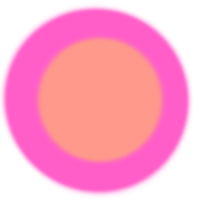
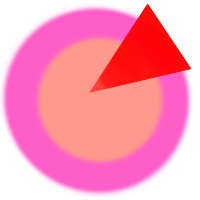
add global state, interface, reset & scale

Changed region(s): [[0.45, 0.0, 0.96, 0.48]]

diff --git a/src/Duck.jsx b/src/Duck.jsx
@@ -1,18 +1,24 @@
 import { OrbitControls, useTexture} from '@react-three/drei'
 import {useFrame} from '@react-three/fiber'
-import { useRef, useState } from 'react'
+import { useEffect, useRef, useState } from 'react'
 import * as THREE from 'three'
 import Sticker from './Sticker'
+import useSticker from './stores/useSticker'
 
 export default function Duck()
 {
-    const cubeRef = useRef()
+    const duckRef = useRef()
     const helperRef = useRef()
 
+
+    //global state
+    const start = useSticker((state) => state.start)
+    const scale = useSticker((state) => state.scale)
+    const setScale = useSticker((state) => state.setScale)
+
+    //load texture
     const decalTexture = useTexture('./screen-sticker.png')
 
-    //set one sticker
-    const [ useSticker, setSticker ] = useState(false)
 
     //array of stickers
     const [stickers, setStickers] = useState([])
@@ -24,12 +30,41 @@ export default function Duck()
             id: stickers.length,
             renderOrder: stickers.length,
             rotation: [helperRef.current.rotation.x, helperRef.current.rotation.y, helperRef.current.rotation.z],
-            position: [helperRef.current.position.x, helperRef.current.position.y, helperRef.current.position.z]
+            position: [helperRef.current.position.x, helperRef.current.position.y, helperRef.current.position.z],
+            scale: scale * 0.5
         }])   
     }
 
+
+    //reset stickers
+    const reset = () => {
+        setStickers([])
+        setScale(1)
+        helperRef.current.position.set(0,0,0)
+
+    }
+
+
+    useEffect(() =>
+    {
+        const unsubscribeReset = useSticker.subscribe(
+            (state) => state.phase,
+            (value) =>
+            {
+                if(value === 'cleared')
+                    reset()
+            }
+        )
+
+        return () => 
+        {
+            unsubscribeReset()
+        }
+    }, [])
+
     // //render helper only if there is an intersection
     // const [ helper, setHelper ] = useState(false)
+
 
     useFrame((state) => {
         updateHelperPosition(state.raycaster)
@@ -38,7 +73,7 @@ export default function Duck()
 
     const updateHelperPosition = (raycaster) => {
         const intersects =[]
-        const mesh = cubeRef.current
+        const mesh = duckRef.current
         raycaster.intersectObject(mesh, false, intersects)
         console.log[intersects]
 
@@ -59,8 +94,8 @@ export default function Duck()
                 n.add( intersects[ 0 ].point )
 
                 helperRef.current.position.copy((intersects[0].point))
-                helperRef.current.lookAt(n)
-                    
+                console.log(helperRef.current.rotation)
+                helperRef.current.lookAt(n)    
             }
 
             intersects.length=0
@@ -70,21 +105,29 @@ export default function Duck()
     return <>
         <OrbitControls makeDefault />
         <mesh 
-            ref={ cubeRef }
+            ref={ duckRef }
             onPointerEnter={() => document.body.style.cursor = 'grab'}
             onPointerLeave={() => document.body.style.cursor = 'default'}
         >
             <sphereGeometry />
-            <meshNormalMaterial depthWrite={false}/>
+            <meshNormalMaterial depthWrite={false} wireframe/>
         </mesh>
         
 
-        <mesh ref={helperRef} visible={true} onClick={addSticker}>
-            {/* <boxGeometry args={[0.5, 0.5, 0.25]} /> */}
-            <planeGeometry args={[0.5, 0.5]} />
-            <meshBasicMaterial map={decalTexture} transparent side={THREE.DoubleSide}/>
+        <mesh 
+            ref={helperRef} 
+            visible={true}
+            // scale={scale} 
+            onClick={() => {
+                addSticker()
+                start()
+            }}
+        >
+                {/* <boxGeometry args={[0.5, 0.5, 0.25]} /> */}
+                <planeGeometry args={[0.5, 0.5]} />
+                <meshBasicMaterial map={decalTexture} transparent side={THREE.DoubleSide}/>
         </mesh>
 
-        <Sticker stickers={stickers} cubeRef={cubeRef}/>
+        <Sticker stickers={stickers} duckRef={duckRef}/>
     </>
 }

diff --git a/src/style.css b/src/style.css
@@ -8,3 +8,110 @@ html, body, #root
     overflow: hidden;
     background: rgb(22, 16, 26);
 }
+
+.interface
+{
+    position: fixed;
+    top: 0;
+    left: 0;
+    width: 100%;
+    height: 100%;
+    pointer-events: none;
+}
+
+.reset
+{
+    font-family: 'Poppins', sans-serif;
+    width: 70px;
+    height: 70px;
+    margin-top: 16px;
+    margin-left: 16px;
+    background-color: rgb(187, 105, 169);
+    color: #fff;
+    border-radius: 50%;
+    display: flex;
+    justify-content: center;
+    pointer-events: auto;
+    align-items: center;
+    cursor: pointer;
+    transition: background-color 0.1s, transform 0.3s;
+}
+
+.reset:hover
+{
+    background-color:  rgb(52, 83, 219);
+    transform: scale(1.05);
+}
+
+.reset:active
+{
+    transform: scale(1);
+}
+
+.slider {
+	position: absolute;
+	left: 50%;
+	bottom: 10px;
+	height: 48px;
+	width: 80vw;
+	max-width: 350px;
+	border-radius: 20px 20px 0 0;
+	transform: translateX(-50%);
+	display: flex;
+	align-items:center;
+	justify-content:space-between;
+	padding:0 21px 6px 16px;
+    cursor: pointer;
+    pointer-events: auto;
+}
+
+@media screen and (min-width: 640px) {
+	.slider {
+		width: 398px;
+		max-width: none;
+	}
+}
+
+
+.slider-range {
+	width: 100%;
+	height: 13px;
+	margin: 0 16px;
+	-webkit-appearance: none;
+  appearance: none;
+  background: transparent;
+  cursor: pointer;
+}
+
+.slider-range::-webkit-slider-runnable-track {
+  background: rgb(255, 255, 255);
+  height: 2px;
+}
+
+.slider-range::-moz-range-track {
+  background: rgb(255, 255, 255);
+  height: 2px;
+}
+
+.slider-range::-webkit-slider-thumb {
+	-webkit-appearance: none;
+	width: 20px;
+	height: 20px;
+	background-color: white;
+	border-radius: 50%;
+	transform: translateY(-50%);
+}
+
+.slider-range::-moz-range-thumb {
+	border: none;
+	width: 15px;
+	height: 15px;
+	background-color: white;
+	border-radius: 50%;
+	margin-top: -5px;
+    transform: translateY(-50%);
+}
+
+.slider-range:focus {
+  outline: none;
+}

diff --git a/src/Sticker.jsx b/src/Sticker.jsx
@@ -2,26 +2,28 @@ import { Decal, useTexture } from '@react-three/drei'
 import { useEffect, useRef } from 'react'
 
 
-export default function Sticker({cubeRef, stickers})
+export default function Sticker({duckRef, stickers})
 {
     const decalRef = useRef()
     const decalTexture = useTexture('./screen-sticker.png')
-    useEffect(()=>{console.log(stickers)}, [stickers[0]])
+
+    useEffect(() => console.log(stickers), [])
+
 
     return <>
         {stickers.map(sticker => (
             <Decal
                 key={sticker.id} 
-                mesh={cubeRef}
+                mesh={duckRef}
                 ref={decalRef}
                 // debug
-                scale={0.5}
+                scale={sticker.scale}
                 polygonOffset
                 polygonOffsetFactor={-4}
                 rotation={sticker.rotation}
                 position={sticker.position}
                 renderOrder={sticker.renderOrder}
-                >
+            >
                 <meshBasicMaterial map={decalTexture} transparent depthWrite={false}/>
             </Decal>
         ))}

diff --git a/src/Interface.jsx b/src/Interface.jsx
@@ -1,0 +1,31 @@
+import { useEffect, useRef, useState } from "react"
+import useSticker from "./stores/useSticker.jsx"
+
+
+export default function Interface()
+{
+    const clear = useSticker((state) => state.clear)
+    const scale = useSticker((state) => state.scale)
+    const setScale = useSticker((state) => state.setScale)
+    
+
+    const handleScaleChange = (event) => {
+        const value = parseFloat(event.target.value)
+        setScale(value)
+    }
+
+    return <div className='interface'>
+        <div className='reset' onClick={ clear }>Reset</div>
+        <div className='slider'>
+            <input
+                className='slider-range'
+                type='range'
+                value={scale}
+                step={0.1}
+                min={0.3}
+                max={2.0}
+                onChange={handleScaleChange}
+            />
+        </div>
+    </div>
+}

diff --git a/src/index.html b/src/index.html
@@ -2,9 +2,13 @@
 <html lang="en">
   <head>
     <meta charset="UTF-8" />
-    <link rel="icon" type="image/svg+xml" href="/vite.svg" />
     <meta name="viewport" content="width=device-width, initial-scale=1.0" />
     <title>stickers</title>
+
+    <link rel="preconnect" href="https://fonts.googleapis.com">
+    <link rel="preconnect" href="https://fonts.gstatic.com" crossorigin>
+    <link href="https://fonts.googleapis.com/css2?family=Poppins:wght@600&display=swap" rel="stylesheet">
+
   </head>
   <body>
     <div id="root"></div>

diff --git a/src/stores/useSticker.jsx b/src/stores/useSticker.jsx
@@ -1,0 +1,18 @@
+import { create } from 'zustand'
+import { subscribeWithSelector } from 'zustand/middleware'
+
+
+export default create(subscribeWithSelector((set) =>
+{
+    return {
+
+        phase: 'cleared',
+        scale: 1,
+
+        start: () => set((state) => state.phase === 'cleared' ? { phase: 'start'} : {}),
+        clear: () => set((state) => state.phase === 'start' ? { phase: 'cleared'} : {}),
+        setScale: (value) => {
+            set( {scale: value} )
+        }
+    }
+}))

diff --git a/src/World.jsx b/src/World.jsx
@@ -1,16 +1,15 @@
 import { Canvas } from '@react-three/fiber'
 import Duck from './Duck.jsx'
+import Interface from './Interface.jsx'
+import './style.css'
 
 
 export default function World()
 {
-
-
     return <>
         <Canvas shadows> 
             <Duck />
         </Canvas>
-        {/* {!helper && <MouseSticker />} */}
-        
+        <Interface />   
     </>
 }

diff --git a/src/index.jsx b/src/index.jsx
@@ -1,6 +1,7 @@
 import ReactDOM from 'react-dom/client'
 import './style.css'
 import World from './World.jsx'
+import Interface from './Interface.jsx'
 
 
 const root = ReactDOM.createRoot(document.querySelector('#root'))
